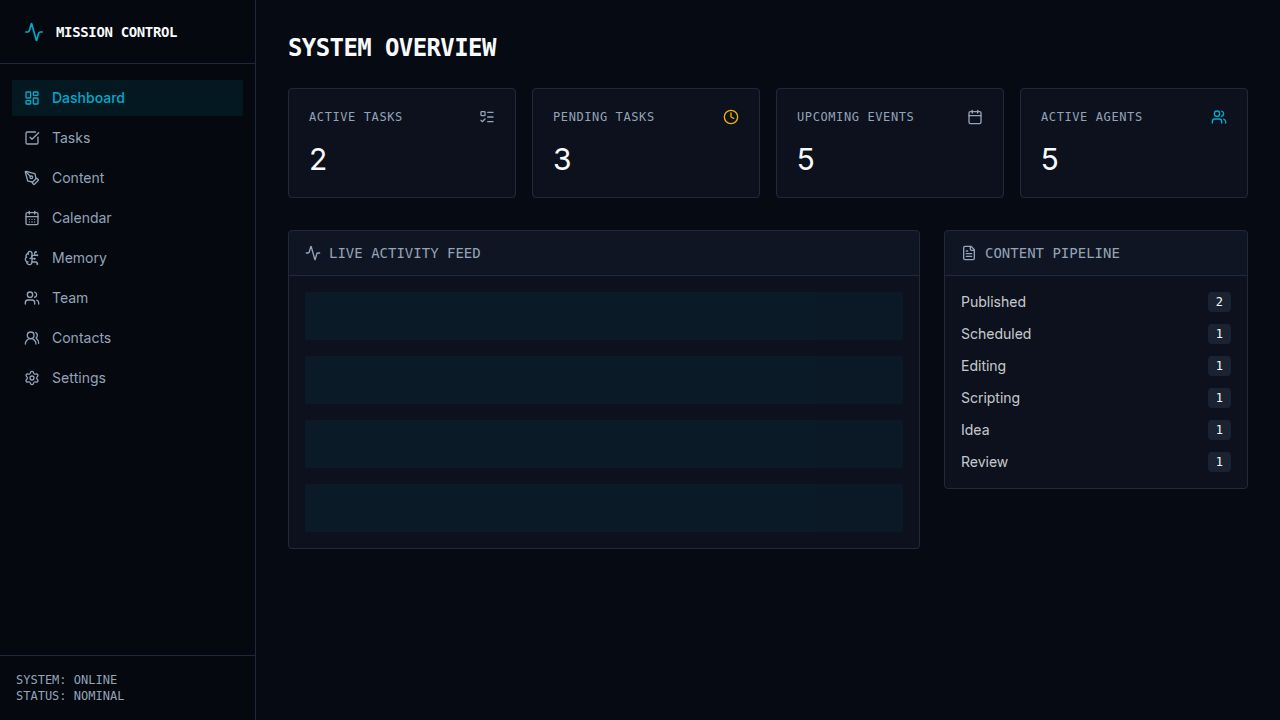
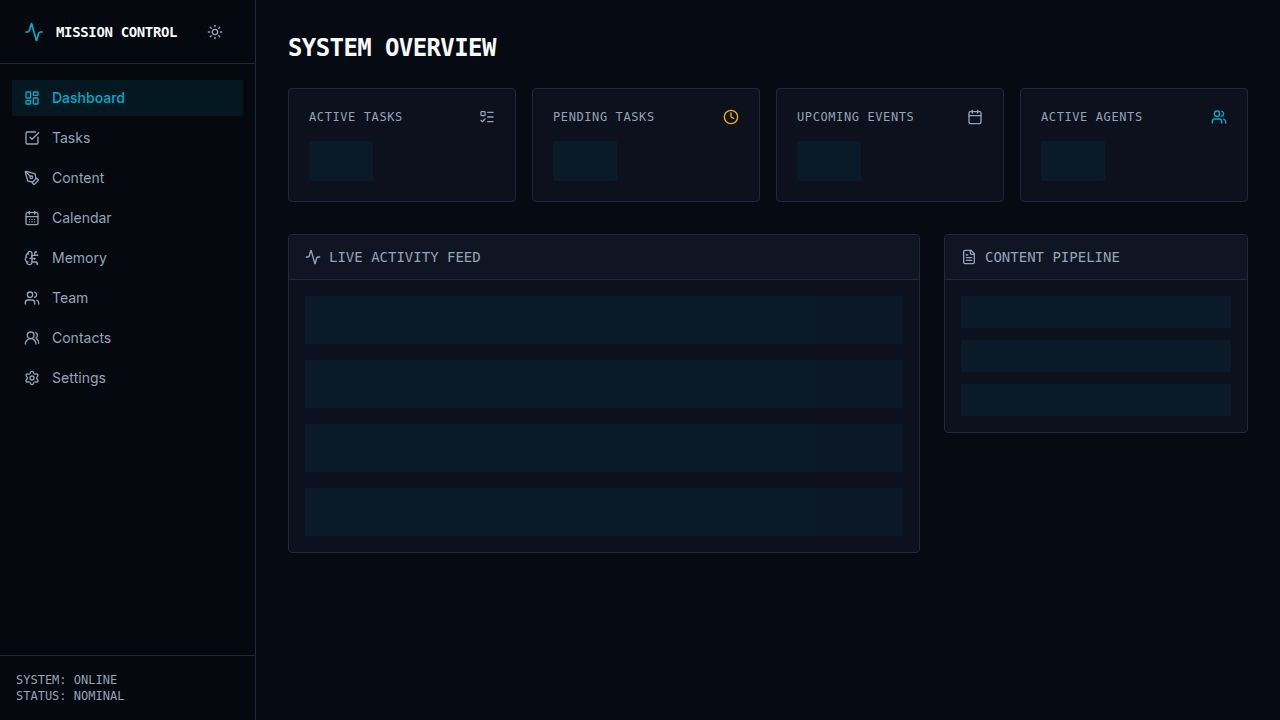
Improve settings page to auto-refresh dashboard after saving token
Update the settings page to invalidate TanStack Query caches after saving the admin token, ensuring the dashboard automatically refetches data.

Replit-Commit-Author: Agent
Replit-Commit-Session-Id: 29708668-7a11-4e84-8d7a-99ea5a39cf0e
Replit-Commit-Checkpoint-Type: full_checkpoint
Replit-Commit-Event-Id: 1fa7e67e-d427-4f76-9b6c-223802feb949
Replit-Commit-Screenshot-Url: https://storage.googleapis.com/screenshot-production-us-central1/a3ce78cb-ff40-42df-94b5-63873a5f83ae/29708668-7a11-4e84-8d7a-99ea5a39cf0e/OkmbRB4
Replit-Helium-Checkpoint-Created: true

diff --git a/artifacts/mission-control/src/pages/settings.tsx b/artifacts/mission-control/src/pages/settings.tsx
@@ -959,7 +959,10 @@ export default function Settings() {
           </div>
           <div className="max-w-xl flex gap-2">
             <Input type="password" value={adminToken} onChange={e => setAdminToken(e.target.value)} placeholder="MISSION_CONTROL_ADMIN_TOKEN" />
-            <Button size="sm" onClick={() => localStorage.setItem("mission_control_admin_token", adminToken)}>Save</Button>
+            <Button size="sm" onClick={() => {
+              localStorage.setItem("mission_control_admin_token", adminToken);
+              queryClient.invalidateQueries();
+            }}>Save</Button>
           </div>
         </section>
 
